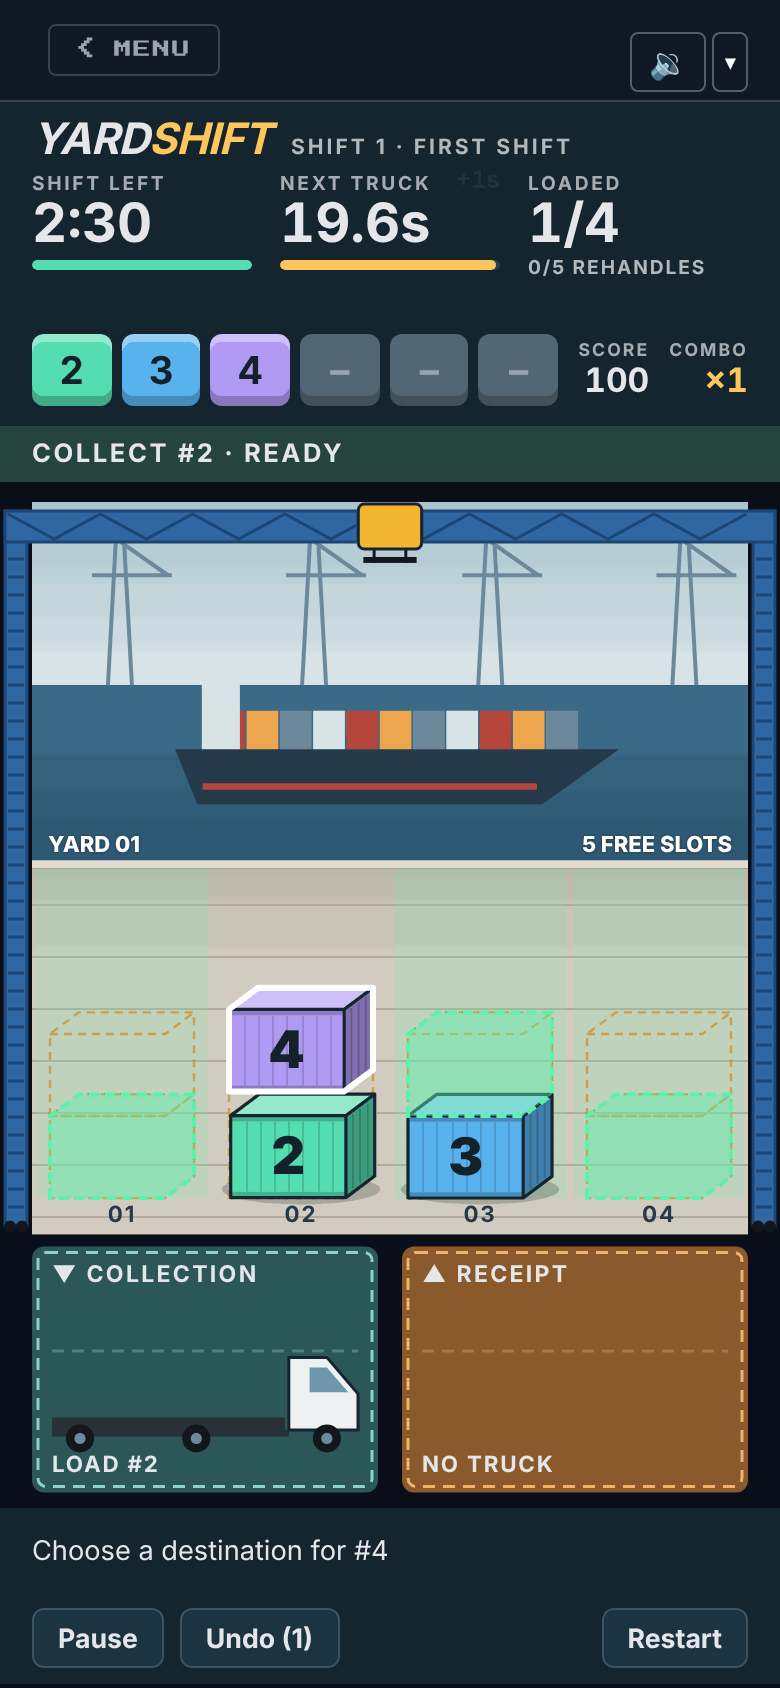
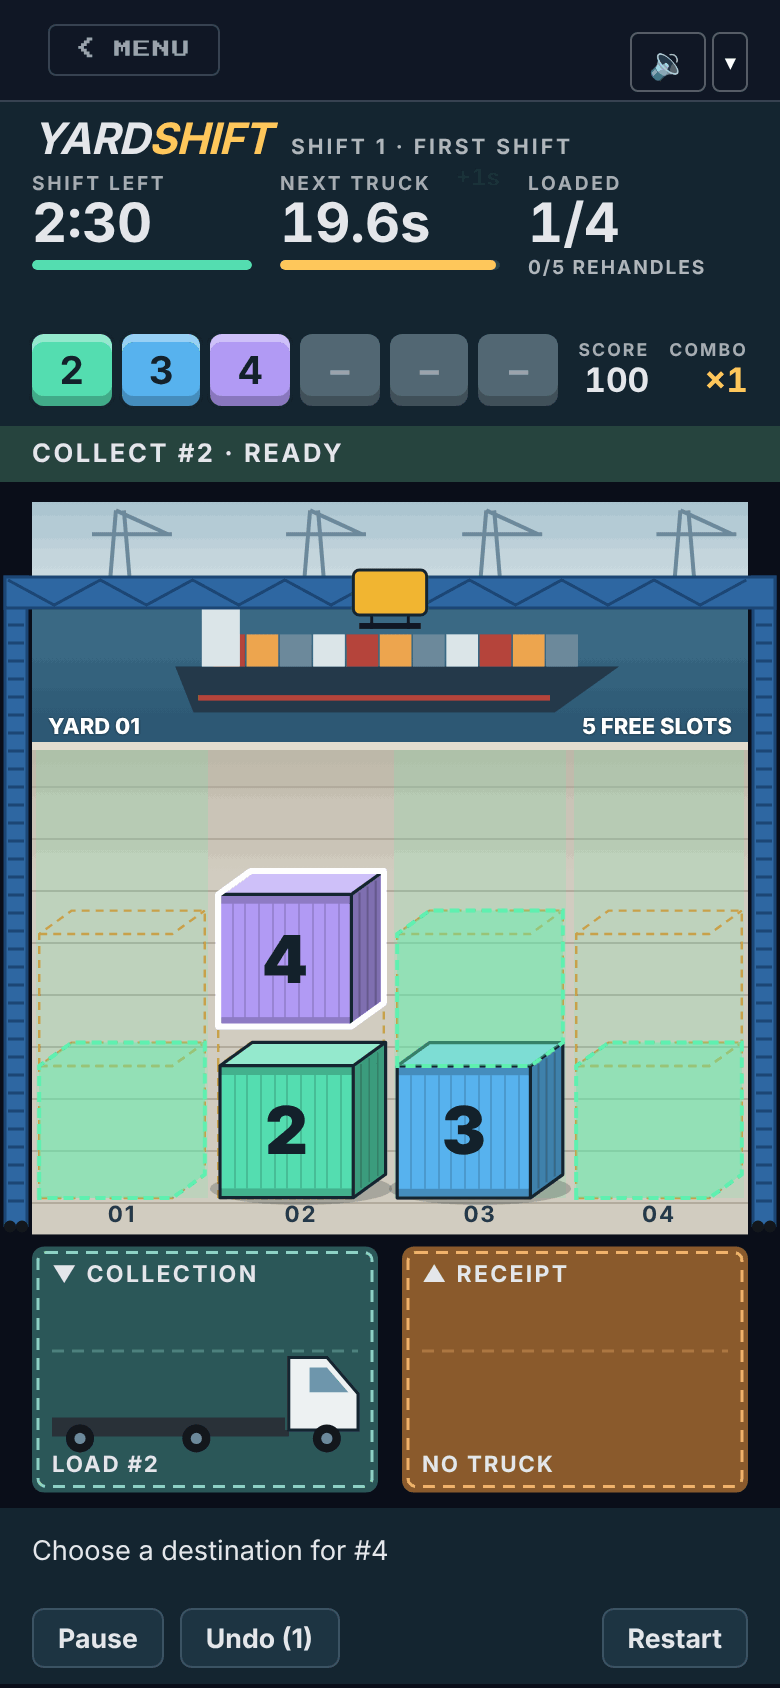
Yardshift: target proportions, backdrop a quarter band behind the beam, bigger containers
The harbour backdrop is a band of a quarter of the play surface with the gantry
beam across it; the concrete and stacks fill the rest, and containers grow to
0.92 of a column (about a fifth of a phone canvas). Geometry tests pin the band
share, the box width and the top slot on the concrete. Recaptured 2D proofs and
the cover.

Claude-Session: https://claude.ai/code/session_0155BNjwPfcnFQSyZNLHGLyJ

Changed region(s): [[0.0, 0.2773, 1.0, 0.7393]]

diff --git a/src/sims/yardshift/modules/yardGeometry.ts b/src/sims/yardshift/modules/yardGeometry.ts
@@ -48,14 +48,16 @@ export interface YardGeometry {
 
 /** Room under the ground line for the stack numbers. */
 export const LABEL_PX = 18
-/** Share of the column a container front face takes; the side face takes `DEPTH` more. */
-const FRONT = 0.64
-const DEPTH = 0.16
-const RISE = 0.12
+/** Share of the column a container front face takes; the side face takes `DEPTH` more (0.92 of the column in all). */
+const FRONT = 0.74
+const DEPTH = 0.18
+const RISE = 0.13
+/** Tallest container front for its width (a container's end is about square). */
+const ASPECT = 1
 /** Lift of the selected container, as a share of its height. */
 export const LIFT = 0.3
-/** Least share of the yard height the harbour backdrop keeps. */
-const MIN_BACKDROP = 0.3
+/** Share of the play surface (yard top to bay bottom) the harbour backdrop band takes: the target's quarter. */
+export const BACKDROP = 0.25
 
 export function yardGeometry(layout: Layout, capacity: number): YardGeometry {
   const { yard } = layout
@@ -64,17 +66,17 @@ export function yardGeometry(layout: Layout, capacity: number): YardGeometry {
   const dx = colW * DEPTH
   const dy = colW * RISE
   const groundY = Math.round(yard.y + yard.h - LABEL_PX)
+  const surfaceH = Math.max(layout.collection.y + layout.collection.h, yard.y + yard.h) - yard.y
+  const backdropBottom = Math.round(yard.y + Math.min(yard.h * 0.45, surfaceH * BACKDROP))
   const beamH = Math.max(10, Math.min(18, yard.h * 0.045))
-  const beamY = yard.y + 4
+  // The gantry beam runs across the backdrop band, so the band sits behind it.
+  const beamY = Math.round(yard.y + (backdropBottom - yard.y) * 0.3)
   const hookRoom = beamH + 10
   const cap = Math.max(1, capacity)
-  // The harbour backdrop keeps at least a third of the yard; the stacks (top face and lift included) fit under it.
-  const room = groundY - Math.max(beamY + hookRoom, yard.y + yard.h * MIN_BACKDROP) - dy
+  // The stacks (top face and lift included) rise from the ground to the backdrop band, under the beam and hook.
+  const room = groundY - Math.max(beamY + hookRoom, backdropBottom) - dy
   // Whole pixels, so neighbouring tiers share an edge exactly.
-  const boxH = Math.floor(Math.max(8, Math.min(boxW * 0.72, room / (cap + LIFT + 0.3))))
-  const stackTop = groundY - cap * boxH - dy - boxH * LIFT
-  // The backdrop fills what the stacks leave, between a third and a half of the yard.
-  const backdropBottom = Math.min(yard.y + yard.h * 0.5, Math.max(yard.y + yard.h * MIN_BACKDROP, stackTop - boxH * 0.3))
+  const boxH = Math.floor(Math.max(8, Math.min(boxW * ASPECT, room / (cap + LIFT))))
   const backdrop = { x: yard.x, y: yard.y, w: yard.w, h: backdropBottom - yard.y }
   const floor = { x: yard.x, y: backdropBottom, w: yard.w, h: yard.y + yard.h - backdropBottom }
   const legW = Math.max(6, Math.min(12, yard.x - 4))

diff --git a/src/sims/yardshift/modules/yardGeometry.test.ts b/src/sims/yardshift/modules/yardGeometry.test.ts
@@ -25,6 +25,8 @@ describe('Yardshift 2D yard geometry', () => {
           layout.columns.forEach((col, i) => {
             const slots = slotsFor(g, layout, i, level.capacity)
             for (const b of slots) expect(contains(col, boxBounds(b)), `level ${level.number} stack ${i}`).toBe(true)
+            // Even the top slot stays on the concrete, below the backdrop band.
+            expect(boxBounds(slots[slots.length - 1]!).y).toBeGreaterThanOrEqual(g.floor.y)
             const lifted = boxAt(g, layout, i, level.capacity - 1, g.lift)
             expect(contains(col, boxBounds(lifted))).toBe(true)
             expect(boxBounds(lifted).y).toBeGreaterThan(g.gantry.beamY + g.gantry.beamH)
@@ -53,6 +55,11 @@ describe('Yardshift 2D yard geometry', () => {
           expect(g.backdrop.y + g.backdrop.h).toBe(g.floor.y)
           expect(g.groundY).toBeGreaterThan(g.floor.y)
           expect(g.groundY).toBeLessThan(layout.yard.y + layout.yard.h)
+          // The target's proportions: the backdrop is a band of about a quarter, the containers nearly fill a column.
+          const canvasH = layout.collection.y + layout.collection.h - layout.yard.y
+          expect(g.backdrop.h / canvasH).toBeGreaterThan(0.2)
+          expect(g.backdrop.h / canvasH).toBeLessThanOrEqual(0.26)
+          expect((g.boxW + g.dx) / layout.columns[0]!.w).toBeGreaterThan(0.85)
         }
       })
 

diff --git a/src/sims/yardshift/composables/useYardCanvas.ts b/src/sims/yardshift/composables/useYardCanvas.ts
@@ -217,7 +217,7 @@ function shadow(g: CanvasRenderingContext2D, b: Box, groundY: number, strength =
 }
 
 function backdrop(g: CanvasRenderingContext2D, r: Rect, seed: number): void {
-  const horizon = r.y + r.h * 0.5
+  const horizon = r.y + r.h * 0.42
   const sky = g.createLinearGradient(0, r.y, 0, horizon)
   sky.addColorStop(0, C['sky-top'])
   sky.addColorStop(1, C['sky-low'])
@@ -231,7 +231,7 @@ function backdrop(g: CanvasRenderingContext2D, r: Rect, seed: number): void {
   // Distant ship-to-shore cranes: an A-frame with a boom reaching over the water.
   g.strokeStyle = C.distant
   g.lineWidth = 2
-  const craneH = (horizon - r.y) * 0.8
+  const craneH = (horizon - r.y) * 0.92
   for (let i = 0; i < 4; i++) {
     const cx = r.x + r.w * (0.12 + i * 0.26) + ((seed * 7 + i * 13) % 9)
     const top = horizon - craneH
@@ -249,8 +249,8 @@ function backdrop(g: CanvasRenderingContext2D, r: Rect, seed: number): void {
   // A ship at the berth, deck loaded with a row of small boxes.
   const shipW = r.w * 0.62
   const sx = r.x + r.w * 0.2
-  const deck = horizon + (r.y + r.h - horizon) * 0.35
-  const hullH = Math.max(6, (r.y + r.h - horizon) * 0.3)
+  const deck = horizon + (r.y + r.h - horizon) * 0.42
+  const hullH = Math.max(6, (r.y + r.h - horizon) * 0.32)
   g.fillStyle = C.hull
   g.beginPath()
   g.moveTo(sx, deck)

diff --git a/src/sims/yardshift/yardshift-AGENTS.md b/src/sims/yardshift/yardshift-AGENTS.md
@@ -43,9 +43,11 @@ with Canvas 2D. Canvas rather than SVG: one paint pass per change with no DOM no
 and crane frames, and a backing store scaled by `devicePixelRatio` (capped at 3) for crisp lines.
 
 - `modules/yardGeometry.ts` (pure) places every shape from `layoutFor`'s layout and the capacity: the harbour
-  backdrop (at least 30 % of the yard, up to 50 % when the stacks are short), the concrete floor, the ground line,
-  the container size (front 0.64 of the column, side face 0.16, top rise 0.12; height from the room at full
-  capacity plus the selection lift), the gantry (legs in the 16 px side margins, outside every column), the crane
+  backdrop (a band of `BACKDROP`, a quarter of the play surface as in the target, at most 45 % of the yard, with
+  the gantry beam across it at 30 % of its height), the concrete floor, the ground line, the container size (front
+  0.74 of the column, side face 0.18, top rise 0.13, so a box is about a fifth of a phone canvas wide; height from
+  the floor at full capacity plus the selection lift, at most square, so a full stack nearly reaches the band), the
+  gantry (legs in the 16 px side margins, outside every column), the crane
   carry height and each bay's truck (`truckIn`: cab at the bay's right end under `arrowBox`, flatbed at most 4.2
   cabs long, cargo sized like a yard box where the bed allows). `boxAt(geo, layout, stack, tier, lift)` is a
   container's oblique box; `boxBounds` its whole drawn area. `modules/yardGeometry.test.ts` proves, for every level
